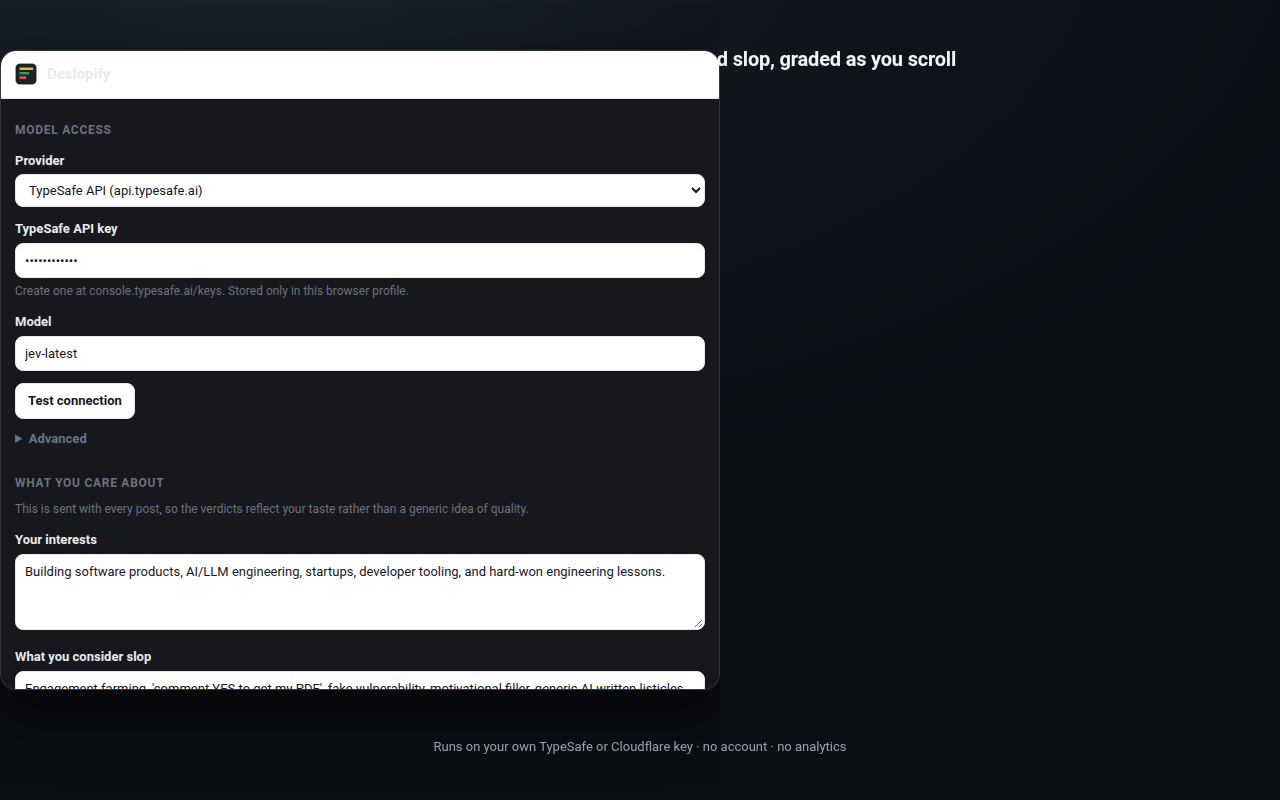
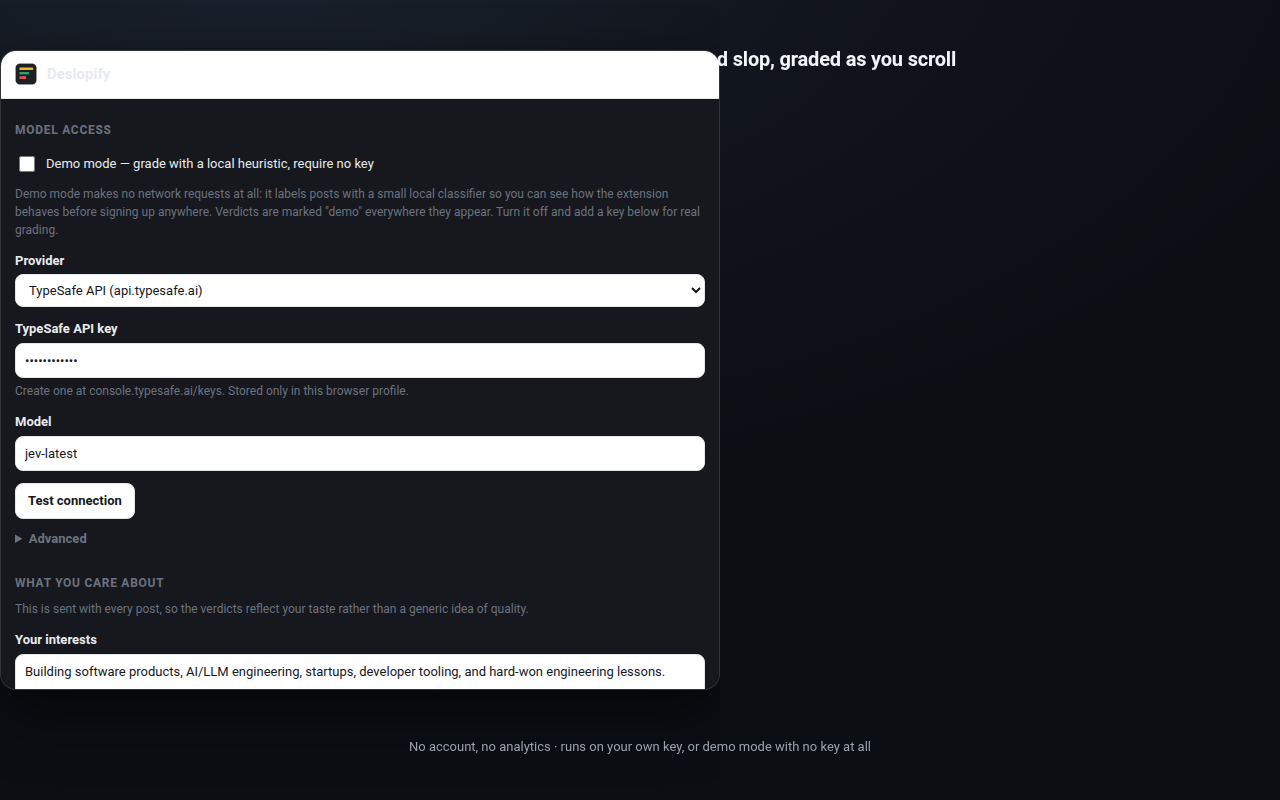
chore: license, CI, and launch material
- LICENSE: MIT.
- .github/workflows/verify.yml runs the full suite (unit, DOM, e2e), the Mozilla
  lint, and both store packages on every push, and uploads the packages as an
  artifact. Store packaging is now a thing CI proves rather than a local ritual.
- store/LAUNCH.md: the LinkedIn post, its first comment, a shorter variant, the
  media and alt text to attach, a pre-post checklist, and the overclaims to avoid.
- README: demo mode, install-from-release, license. PRIVACY.md documents that demo
  mode makes no network requests at all — a claim the e2e suite now verifies.
- store assets regenerated (the popup gained the demo toggle) and the Pages policy
  rebuilt from PRIVACY.md.

Changed region(s): [[0.0, 0.1875, 0.5625, 0.875], [0.3125, 0.9062, 0.6875, 0.9375]]

diff --git a/docs/privacy.html b/docs/privacy.html
@@ -39,6 +39,8 @@
       <p>Everything below stays in your browser's extension storage on your device:</p>
       <ul><li>your settings, including your API key (so the extension can call your provider),</li><li>a local cache of verdicts, keyed by a hash of the post and your settings, so re-scrolling does not re-send anything,</li><li>counters such as how many posts were scored and how many tokens were used.</li></ul>
       <p>The cache holds verdicts and token counts, not copies of post text. You can clear it at any time from the popup or the settings page ("Clear cache"), and removing the extension deletes all of it.</p>
+      <h2 id="demo-mode">Demo mode</h2>
+      <p>Demo mode is off by default. When it is on, Deslopify grades posts with a small heuristic that runs entirely inside the extension: <strong>no API key is needed and no network requests are made at all</strong> — nothing is sent anywhere, including to the provider you may have configured. Verdicts produced this way are labelled "demo" wherever they appear, and turning demo mode off restores normal grading.</p>
       <h2 id="what-deslopify-does-not-do">What Deslopify does not do</h2>
       <ul><li>No analytics, telemetry, crash reporting, or usage tracking.</li><li>No advertising, no ad identifiers, no profiling.</li><li>No selling or sharing of data with anyone other than the provider you configured.</li><li>No remote code: every line of JavaScript runs from the extension package you installed.</li></ul>
       <h2 id="your-controls">Your controls</h2>

diff --git a/store/LAUNCH.md b/store/LAUNCH.md
@@ -1,0 +1,99 @@
+# Launch material
+
+## The LinkedIn post (main draft)
+
+Post it as plain text, no link in the body — put links in the first comment. Two reasons: LinkedIn suppresses reach on
+posts with outbound links, and a launch post for a slop filter must not itself read like slop. No broetry, no "Agree?",
+no "comment YES". Specific claims only.
+
+```text
+I got tired of reading LinkedIn, so I built a filter for it.
+
+Every post in your feed gets graded as you scroll: gold for a golden nugget, green for useful, red for slop. Click the
+badge and it shows its work — the probability for each verdict, the signals that moved the score, and what the call cost
+in tokens.
+
+How it works, because this is the part I care about:
+
+It asks TypeSafe's jev model 11 structured questions per post, in one call. One overall verdict, one information-density
+score, nine yes/no signals (specificity, originality, actionable, promotional, engagement bait, AI boilerplate,
+broetry, relevance, worth saving). The verdict itself is computed in code from those answers, using weights and
+thresholds you can edit. The prompt produces evidence; the code decides.
+
+That distinction matters. "An AI rates your feed" is useless if you can't see why, or argue with it. So your reader
+profile — your interests, what you call slop, what you call a nugget — goes with every request, and every weight is a
+slider in settings.
+
+Two things I'll be honest about:
+
+1. The hard part was not the model. It was LinkedIn's markup, which changed twice while I was building. Their
+   server-driven feed wraps each item in a `display: contents` container: it has no box, so an IntersectionObserver
+   never fires on it and posts were found but never graded. Discovery now has a path that ignores class names
+   completely — it finds the Like/Comment/Repost row and walks up to the post.
+
+2. It's a filter, not a judge. I've already disagreed with it more than once. The thresholds are yours.
+
+MIT, open source, Chrome and Firefox. It runs on your own API key, and there's demo mode that grades posts with a local
+heuristic so you can try it with no key and no sign-up — nothing leaves your browser in that mode.
+
+Links in the first comment.
+```
+
+## First comment
+
+```text
+Code, install instructions, and the full write-up on how the verdicts are computed:
+https://github.com/Pikaryu729/deslopify
+
+There's a one-button demo mode (no API key, no account, no network requests) if you just want to see it work.
+Once the store listings clear review I'll add them here.
+```
+
+## Alternative short post (if the long one feels like too much)
+
+```text
+I built a slop filter for LinkedIn.
+
+Gold = golden nugget. Green = useful. Red = slop. As you scroll, with the reasoning shown when you click.
+
+It asks TypeSafe's jev 11 structured questions per post in one call, then computes the verdict in code from those
+answers using weights and thresholds you can edit. Your interests are part of the request, so the labels are yours, not
+a generic average.
+
+The interesting failure: LinkedIn's feed wraps items in `display: contents` containers, which have no box, so
+IntersectionObserver never fired and posts were discovered but silently never graded. The fallback now finds the
+Like/Comment/Repost row and walks up to the post, no class names required.
+
+MIT, open source, Chrome + Firefox, runs on your own key — or try demo mode with no key and no network requests.
+Code: https://github.com/Pikaryu729/deslopify
+```
+
+## Media to attach
+
+Attach `store/assets/screenshot-1-feed.png` (the feed with gold/green/red edges) or, better, a 15–25 second screen
+recording of scrolling with badges appearing and one panel opening. A recording outperforms a still on LinkedIn, and
+the extension's whole point is motion.
+
+Alt text for the still:
+
+```text
+A LinkedIn feed with each post outlined in gold, green, or red, and a small badge in the author row of each post reading
+"Nugget 90%", "Useful 83%", or "Slop 92%".
+```
+
+## Checklist before posting
+
+- [ ] `npm run verify` is green, and the repo is pushed (`git status` clean).
+- [ ] The release exists with both zips attached, so "install it" works from a cold start.
+- [ ] `https://pikaryu729.github.io/deslopify/` loads on a phone as well as a desktop (LinkedIn mobile traffic is most
+      of it).
+- [ ] Someone who is not you has installed it once. The first-run path is: install → reload LinkedIn → banner offers
+      demo mode → posts grade. Check that on a machine with no API key configured.
+- [ ] Reply to early comments for the first hour; that is where the reach is.
+
+## Things not to do
+
+- Don't put the repo link in the post body (reach) or repeat it in every comment (spam).
+- Don't claim it "detects AI-written posts". It flags AI *boilerplate* as one signal among eleven, and demo mode is a
+  heuristic that will be wrong sometimes. Overclaiming is the fastest way to lose the technical audience you want.
+- Don't post at the same time as a major news cycle if you can avoid it; scroll displacement on LinkedIn is real.

diff --git a/README.md b/README.md
@@ -17,6 +17,11 @@ the verdict plus confidence. Click the badge for the full breakdown: the model's
 signals that moved the score, every signal with its value, the model name, and the token cost. Low-confidence calls
 get a dashed edge and a `?`.
 
+**No API key yet? Demo mode** grades posts with a small local heuristic — no key, no account, and no network requests
+at all. Every verdict it produces is labelled "demo", and switching to real grading is one settings toggle. It exists
+for two reasons: you can see what the extension does before signing up for a provider, and store reviewers can test it
+without being handed a paid credential.
+
 ## How it works
 
 1. A content script finds feed posts (`data-urn` / `feed-shared-update-v2` hooks, with class-substring and structural
@@ -45,6 +50,10 @@ npm run build          # writes dist/chrome and dist/firefox
 
 - **Chrome / Edge / Brave**: `chrome://extensions` → enable *Developer mode* → *Load unpacked* → `dist/chrome`.
 - **Firefox**: see [Installing on Firefox](#installing-on-firefox) below.
+
+Or skip the build: download the packaged zips from the [latest release](https://github.com/Pikaryu729/deslopify/releases)
+(`deslopify-chrome-*.zip` unzips to a folder you can load unpacked; the Firefox zip installs via *Load Temporary
+Add-on*).
 
 **Then reload your LinkedIn tab.** Content scripts only attach to pages loaded after the extension is installed, so a
 feed tab that was already open is invisible to Deslopify until you refresh it. The popup says so if that is the case.
@@ -86,7 +95,8 @@ and not publicly listed; updates are manual. Alternatively, on Firefox **Develop
 Requirements: Firefox **140+** (the manifest declares `data_collection_permissions`, which older versions do not
 understand), Firefox for Android 142+.
 
-Then open the extension's settings and pick a provider:
+Then open the extension's settings and pick a provider, **or press "Try demo mode"** in the popup to start with no
+key at all:
 
 - **TypeSafe API** (default): paste a key from <https://console.typesafe.ai/keys>. Model `jev-latest`.
 - **Cloudflare Workers AI**: account ID + API token, model `typesafe/jev`.
@@ -95,6 +105,7 @@ Hit **Test connection** — it makes one tiny jev call and reports the respondin
 
 ## Settings worth knowing
 
+- **Demo mode**: grade with a local heuristic — no API key, no network requests, verdicts labelled "demo".
 - **Verdict tuning**: golden-nugget and slop thresholds, the stricter nugget bar for off-topic posts, and the
   low-confidence cut-off. Thresholds are in normalised score units; raise the nugget threshold if you want a stricter
   definition of "nugget".
@@ -108,8 +119,9 @@ Hit **Test connection** — it makes one tiny jev call and reports the respondin
 
 Post text (plus author name, headline, and the flags listed above) is sent to the provider *you* configured, and
 nowhere else. No analytics, no Deslopify server, no other network calls. Keys live in browser extension storage.
-Verdicts are cached locally so repeat views do not re-send anything. Firefox's manifest declares
-`data_collection_permissions.required = ["websiteContent"]` for exactly this reason.
+Verdicts are cached locally so repeat views do not re-send anything. In demo mode the extension makes **no network
+requests at all**. Firefox's manifest declares `data_collection_permissions.required = ["websiteContent"]` for exactly
+this reason.
 
 ## Troubleshooting
 
@@ -202,3 +214,8 @@ errors during a full run.
   line, the on-page banner, and the `[Deslopify] active` console line exist so selector drift fails loudly instead of
   silently.
 - Image-only and video-only posts are skipped (nothing to read); they get a neutral outline and no verdict.
+
+## License
+
+MIT — see [LICENSE](LICENSE). Not affiliated with, endorsed by, or sponsored by LinkedIn Corporation or TypeSafe;
+LinkedIn is a trademark of LinkedIn Corporation.

diff --git a/PRIVACY.md b/PRIVACY.md
@@ -47,6 +47,13 @@ Everything below stays in your browser's extension storage on your device:
 The cache holds verdicts and token counts, not copies of post text. You can clear it at any time from the popup or the
 settings page ("Clear cache"), and removing the extension deletes all of it.
 
+## Demo mode
+
+Demo mode is off by default. When it is on, Deslopify grades posts with a small heuristic that runs entirely inside the
+extension: **no API key is needed and no network requests are made at all** — nothing is sent anywhere, including to the
+provider you may have configured. Verdicts produced this way are labelled "demo" wherever they appear, and turning demo
+mode off restores normal grading.
+
 ## What Deslopify does not do
 
 - No analytics, telemetry, crash reporting, or usage tracking.
